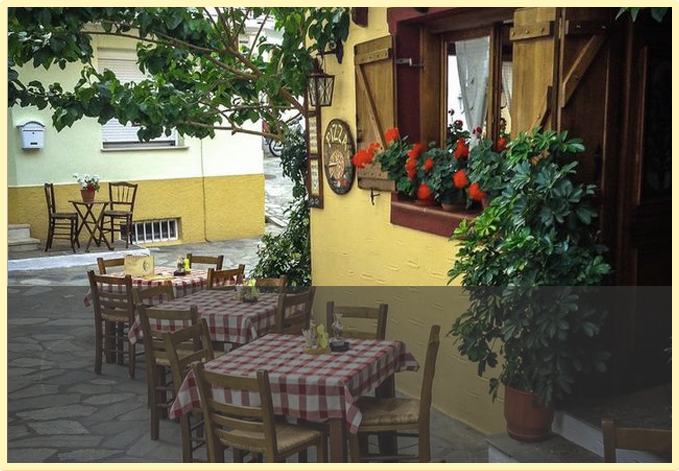
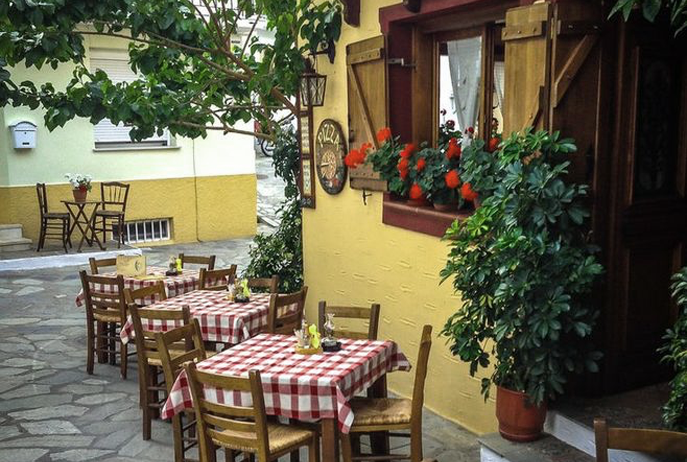
第2页补全补全““

diff --git a/html/way.html b/html/way.html
@@ -636,6 +636,7 @@
                 <img class="arr" src="../image/branch/big_arr_left.png" alt="">
             </div>
             <div class="test_pic">
+                <div class="yelBorder"></div>
                 <div class="list_1" style="left: -679px;">
                     <img src="../image/branch/4.jpg" alt="">
                     <img src="../image/branch/market.png" alt="">
@@ -679,6 +680,7 @@
                     <img src="../image/branch/5.jpg" alt="">
                     <img src="../image/branch/food.png" alt="">
                 </div>
+                <div class="yelBorder"></div>
                 <span class="test_moon"></span>
                 <div class="food_det_con">
                     <div class="test_det">
@@ -716,6 +718,7 @@
                     <img src="../image/branch/6.jpg" alt="">
                     <img src="../image/branch/fengjin.png" alt="">
                 </div>
+                <div class="yelBorder"></div>
                 <span class="test_moon"></span>
                 <div class="food_det_c">
                     <div class="test_det">

diff --git a/css/way.css b/css/way.css
@@ -548,6 +548,15 @@ p {
   left: 140px;
   overflow: hidden;
 }
+.yelBorder {
+  width: 659px;
+  height:451px;
+  border: 10px solid #fef4b6;
+  position: absolute;
+  z-index: 20;
+  top:0;
+  left:0;
+}
 .list_1{
   width: 2716px;
   height: 471px;
@@ -599,7 +608,7 @@ p {
   z-index: 15;
   background: #000000;
   opacity: 0.5;
-  display: none;
+  display: block;
 }
 .food_det_c {
   position: absolute;

diff --git a/js/great.js b/js/great.js
@@ -37,6 +37,8 @@ function play_fc(){
     if (sub_nav_g[0].className == "clicked") {
             third_nav.style.display = "block";
             college_club.style.display = "block";
+            dis_nav(t_n_c,"great_unclick");
+            t_n_c[0].className = "great_click";
         } ;
     if (sub_nav_g[1].className == "clicked") {
             great_vedio.style.display = "block";
